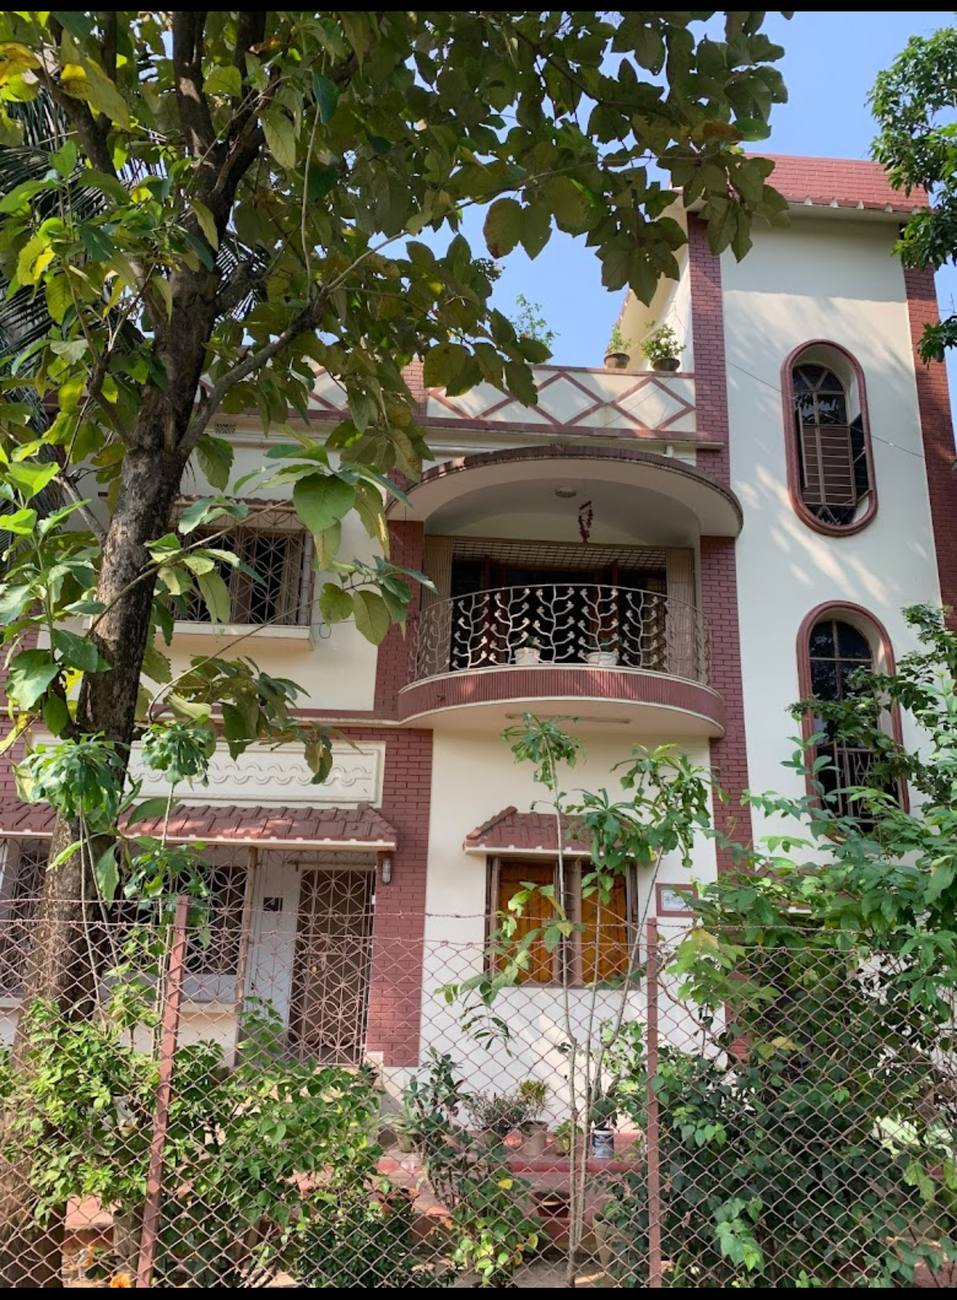
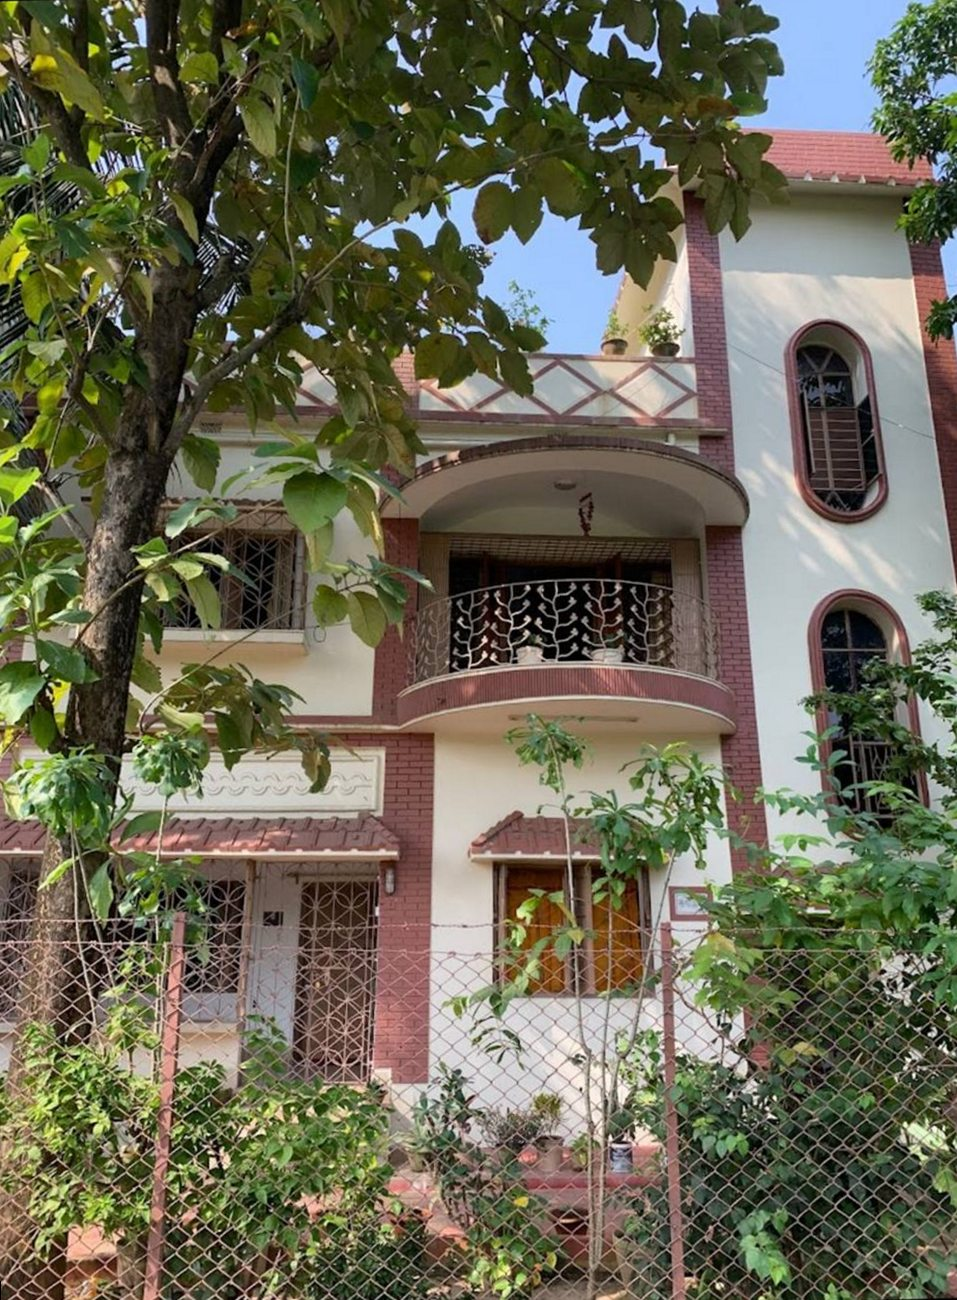
Correct who shares what, and straighten the facade
The shared-spaces note said the sitting room, dining room and balcony
were common ground and that everyone else was welcome in them. That is
wrong twice over: they belong to the 1300 room and to our father, who
lives in the house, and no other guest uses them. As written it both
misled a guest and undersold the room.

Also removed the private balcony line from the list of what every room
has. The 1300 room shares its balcony, its dining room and its way in
and out; the 1500 room has a terrace of its own instead of a balcony.
There is no single answer that holds for all six, so it is written
against each rate rather than promised at the top.

Straightened facade.jpg by 1.5 degrees and gate.jpg by 1, judged the
same way as the room photographs. Garden, verandah and terrace were
checked against the same grid and left alone.

diff --git a/index.html b/index.html
@@ -340,13 +340,12 @@
   <section class="sec" id="rooms">
     <div class="sec__head"><span class="num">02</span><h2>The <em>Rooms</em></h2></div>
     <hr class="dash">
-    <p class="lede">Spacious and airy, each with a private washroom and a private balcony — with its own entry and exit, so you come and go on your own schedule.</p>
+    <p class="lede">Spacious and airy, each with a private washroom and a geyser in it. What lies outside the room differs — one has a terrace of its own, another shares the balcony and the stairs with the family — so it is written against each rate below.</p>
     <div class="two">
       <div>
         <p class="cap">In every one of the six</p>
         <ul class="led">
           <li><span class="k">Private washroom</span><span class="dots"></span><span class="v">geyser, hot water</span></li>
-          <li><span class="k">Private balcony</span><span class="dots"></span><span class="v">own entry &amp; exit</span></li>
           <li><span class="k">Air conditioning</span><span class="dots"></span><span class="v">and a ceiling fan</span></li>
           <li><span class="k">Bedsheets</span><span class="dots"></span><span class="v">pure cotton, fresh</span></li>
           <li><span class="k">Towels</span><span class="dots"></span><span class="v">good ones, not thin</span></li>
@@ -396,11 +395,11 @@
           <span class="dots"></span>
           <span class="room__rate">₹1300</span>
         </h3>
-        <p class="room__note">A proper double: air conditioning, a wooden almirah with glass doors, and a dressing table with a mirror that has been in the house a long time. The dining room and the balcony beyond it are shared with the family.</p>
+        <p class="room__note">A proper double: air conditioning, a wooden almirah with glass doors, and a dressing table with a mirror that has been in the house a long time. The balcony, the dining room and the way in and out are all shared with the family — you come and go through the house, not by a door of your own.</p>
         <ul class="led">
           <li><span class="k">Air conditioning</span><span class="dots"></span><span class="v">and a ceiling fan</span></li>
           <li><span class="k">Almirah &amp; dressing table</span><span class="dots"></span><span class="v">wood, with mirror</span></li>
-          <li><span class="k">Dining room &amp; balcony</span><span class="dots"></span><span class="v">shared with the family</span></li>
+          <li><span class="k">Balcony, dining &amp; entrance</span><span class="dots"></span><span class="v">all shared</span></li>
           <li><span class="k"><b>21–31 December</b></span><span class="dots"></span><span class="v num-v">₹2000 a night</span></li>
         </ul>
         <p class="note">The December rate covers the Mela days, when the town fills up and rooms go early.</p>
@@ -415,8 +414,8 @@
     </div>
 
     <div class="shared">
-      <p class="cap">Shared with the family</p>
-      <p class="note">This is a house people live in, not a hotel floor. The dining room and the balcony are common ground — you are welcome in both, and so is everyone else.</p>
+      <p class="cap">What the ₹1300 room shares, and with whom</p>
+      <p class="note">The sitting room, the dining room and the balcony belong to the ₹1300 room and to our father, who lives in the house. No other guest has the run of them. So it is a house you are staying in rather than a floor of one — quiet, and shared with one person, not with everybody.</p>
       <div class="gal gal--shared">
         <figure><button type="button" data-cap="The sitting room, with the cane sofas and the television."><img src="img/shared-living.jpg" alt="A long sitting room with cane sofas, a television on a stand, a low table and framed pictures on the walls."></button><figcaption>The sitting room.</figcaption></figure>
         <figure><button type="button" data-cap="The dining room, through the doorway."><img src="img/shared-dining.jpg" alt="A dining table with chairs seen through a doorway, with a refrigerator and a washing machine against the far wall."></button><figcaption>The dining room.</figcaption></figure>
